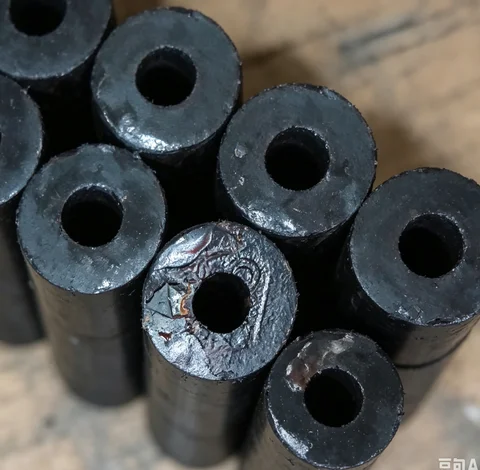
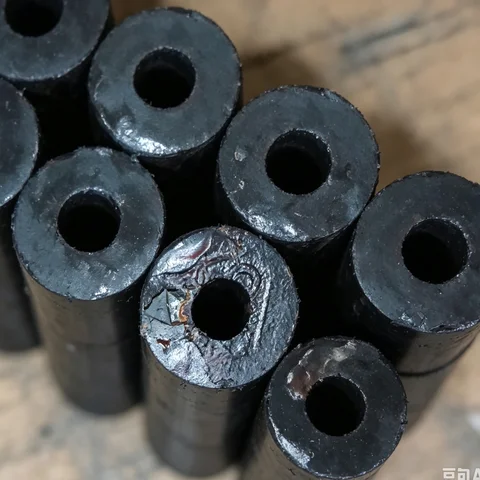
fix: remove English subtitle, full-width 5-col rail, refresh blank images
- Remove subtitle (English small text) from desktop + mobile
- Default width w-1/6 -> w-1/5 so 5 products tile to right edge (100%)
- Refresh antimony + resin graphite blank images from new sources
- 480x480 square WebP 85%

diff --git a/components/home/ProductCategoryRail.tsx b/components/home/ProductCategoryRail.tsx
@@ -17,7 +17,6 @@ import { Link } from "@/i18n/routing"
 
 type Item = {
   title: string
-  subtitle: string
   href: string
   image?: string
 }
@@ -25,31 +24,26 @@ type Item = {
 const items: Item[] = [
   {
     title: "浸锑石墨毛坯",
-    subtitle: "Antimony Graphite Blank",
     href: "/products",
     image: "/images/products/antimony-graphite-blank.webp",
   },
   {
     title: "浸树脂石墨毛坯",
-    subtitle: "Resin-Impregnated Graphite Blank",
     href: "/products",
     image: "/images/products/resin-graphite-blank.webp",
   },
   {
     title: "碳石墨轴承",
-    subtitle: "Carbon Graphite Bearing",
     href: "/products",
     image: "/images/products/carbon-graphite-bearing.webp",
   },
   {
     title: "碳石墨密封环",
-    subtitle: "Carbon Graphite Seal Ring",
     href: "/products",
     image: "/images/products/carbon-graphite-seal-ring.webp",
   },
   {
     title: "碳石墨三瓣环",
-    subtitle: "Carbon Graphite Three-Segment Ring",
     href: "/products",
     image: "/images/products/carbon-graphite-three-segment.webp",
   },
@@ -69,7 +63,7 @@ export default function ProductCategoryRail() {
         {items.map((item, i) => {
           const isHovered = hovered === i
           const widthClass = !anyHovered
-            ? "w-1/6"
+            ? "w-1/5"
             : isHovered
               ? "w-1/4"
               : "w-[15%]"
@@ -96,13 +90,6 @@ export default function ProductCategoryRail() {
                     }`}
                   >
                     {item.title}
-                    <em
-                      className={`mt-3 block not-italic text-[14px] font-normal tracking-wide transition-colors duration-500 lg:text-[16px] ${
-                        isHovered ? "text-white/80" : "text-muted"
-                      }`}
-                    >
-                      {item.subtitle}
-                    </em>
                   </b>
                 </div>
 
@@ -155,9 +142,6 @@ export default function ProductCategoryRail() {
             >
               <b className="block text-[16px] font-bold leading-tight text-primary">
                 {item.title}
-                <em className="mt-2 block not-italic text-[12px] font-normal tracking-wide text-muted">
-                  {item.subtitle}
-                </em>
               </b>
               <span className="mt-4 inline-flex items-center gap-1 text-[10px] font-bold uppercase tracking-[0.14em] text-accent">
                 MORE →

diff --git a/scripts/process_blank_img.py b/scripts/process_blank_img.py
@@ -1,0 +1,22 @@
+from PIL import Image
+from rembg import remove
+
+src = r"C:\Users\倪\AppData\Local\Temp\QQ_1788964190255.png"
+dst = r"C:\Users\倪\Desktop\vibe codeing\客户\huahao-sealing\public\images\products\antimony-graphite-blank.png"
+
+# 1. 读取
+img = Image.open(src).convert("RGBA")
+
+# 2. 逆时针旋转 90 度 (ROTATE_90 = counterclockwise)
+img = img.transpose(Image.Transpose.ROTATE_90)
+
+# 3. 抠图
+cutout = remove(img)
+
+# 4. 合成到白底
+w, h = cutout.size
+white_bg = Image.new("RGBA", (w, h), (255, 255, 255, 255))
+white_bg.alpha_composite(cutout)
+white_bg.convert("RGB").save(dst, "PNG")
+
+print(f"saved: {dst}  size: {w}x{h}")
